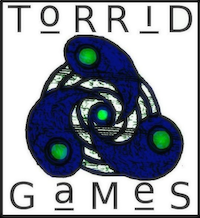
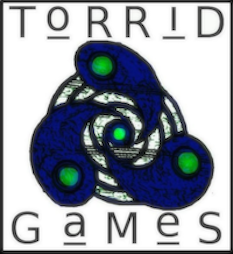
...

diff --git a/_site/about.html b/_site/about.html
@@ -118,7 +118,10 @@
     About
   </h1>
   <article>
-    <p>Torrid Games(TG), established in 2011, initially launched with the game title “SurfGod” for iOS. This game gained attention for its innovative approach, offering a meditative surfing experience aimed at both surfers and non-surfers. In collaboration with oceanic pollution cleanup organizations like Heal the Bay, Torrid Games developed a free version of SurfGod, achieving 20,000 downloads, reflecting the game’s impact and the company’s commitment to raising awareness about oceanic pollution.</p>
+    <p><img src="assets/img/TG.png" />
+<img src="assets/img/YMCA.jpeg" /></p>
+
+<p>Torrid Games(TG), established in 2011, initially launched with the game title “SurfGod” for iOS. This game gained attention for its innovative approach, offering a meditative surfing experience aimed at both surfers and non-surfers. In collaboration with oceanic pollution cleanup organizations like Heal the Bay, Torrid Games developed a free version of SurfGod, achieving 20,000 downloads, reflecting the game’s impact and the company’s commitment to raising awareness about oceanic pollution.</p>
 
 <p>A VR/AR sequel, SurfGod 2 (SG2), was submitted to the NSF for a large scale grant in which our project-pitch was accepted and are currently revising our full SBIR proposal to be considered for a PHASE I grant award.</p>
 

diff --git a/pages/about.md b/pages/about.md
@@ -4,6 +4,9 @@ title: About
 permalink: /about
 ---
 
+<img src="assets/img/TG.png"/>
+<img src="assets/img/YMCA.jpeg"/>
+
 Torrid Games(TG), established in 2011, initially launched with the game title "SurfGod" for iOS. This game gained attention for its innovative approach, offering a meditative surfing experience aimed at both surfers and non-surfers. In collaboration with oceanic pollution cleanup organizations like Heal the Bay, Torrid Games developed a free version of SurfGod, achieving 20,000 downloads, reflecting the game's impact and the company's commitment to raising awareness about oceanic pollution.
 
 A VR/AR sequel, SurfGod 2 (SG2), was submitted to the NSF for a large scale grant in which our project-pitch was accepted and are currently revising our full SBIR proposal to be considered for a PHASE I grant award.
